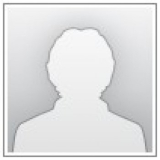
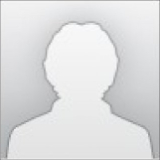
logout

diff --git a/session_test.go b/session_test.go
@@ -119,6 +119,30 @@ func TestMagicLinkSession(t *testing.T) {
 	}
 }
 
+// TestLogin checks the login page tells anonymous visitors how to sign in
+// and bounces already-authenticated ones to the dashboard.
+func TestLogin(t *testing.T) {
+	store := newTestStore(t)
+	user := testUser(t)
+	h := withSessionUser(store, http.HandlerFunc(handleLogin))
+
+	rec := httptest.NewRecorder()
+	h.ServeHTTP(rec, httptest.NewRequest("GET", "/login", nil))
+	if rec.Code != http.StatusOK || !strings.Contains(rec.Body.String(), "/dash") {
+		t.Fatalf("want login page mentioning /dash, got %d: %.200s", rec.Code, rec.Body.String())
+	}
+
+	srec := httptest.NewRecorder()
+	createSession(srec, store, user)
+	req := httptest.NewRequest("GET", "/login", nil)
+	req.AddCookie(srec.Result().Cookies()[0])
+	rec = httptest.NewRecorder()
+	h.ServeHTTP(rec, req)
+	if rec.Code != http.StatusSeeOther || rec.Header().Get("Location") != "/dashboard" {
+		t.Fatalf("signed-in /login: want 303 to /dashboard, got %d to %q", rec.Code, rec.Header().Get("Location"))
+	}
+}
+
 func TestRequireSessionRejectsAnonymous(t *testing.T) {
 	store := newTestStore(t)
 	gated := withSessionUser(store, requireSession(handleDashboard))
@@ -138,9 +162,14 @@ func TestNavAuthenticated(t *testing.T) {
 	if err := templates.IndexPage().Render(context.Background(), &anon); err != nil {
 		t.Fatalf("render: %v", err)
 	}
-	for _, frag := range []string{`href="/dashboard"`, `href="/link"`, "profpic"} {
+	for _, frag := range []string{`href="/dashboard"`, `href="/link"`, `href="/logout"`} {
 		if strings.Contains(anon.String(), frag) {
 			t.Errorf("anonymous nav should not contain %s", frag)
+		}
+	}
+	for _, frag := range []string{`href="/login"`, `src="/profilepic"`} {
+		if !strings.Contains(anon.String(), frag) {
+			t.Errorf("anonymous nav should contain %s", frag)
 		}
 	}
 
@@ -149,9 +178,60 @@ func TestNavAuthenticated(t *testing.T) {
 	if err := templates.IndexPage().Render(ctx, &authed); err != nil {
 		t.Fatalf("render: %v", err)
 	}
-	for _, frag := range []string{`href="/dashboard"`, `href="/link"`, "/assets/profpic/user-1"} {
+	for _, frag := range []string{`href="/dashboard"`, `href="/link"`, `href="/logout"`, `src="/profilepic"`} {
 		if !strings.Contains(authed.String(), frag) {
 			t.Errorf("authenticated nav should contain %s", frag)
 		}
+	}
+}
+
+// TestProfilePic checks /profilepic resolves the avatar from the session:
+// the signed-in user's photo, the default for everyone else.
+func TestProfilePic(t *testing.T) {
+	store := newTestStore(t)
+	user := testUser(t)
+	realPhoto := domains.NewPhoto(1, 1, []byte("real-photo-bytes"), "p1")
+	store.TGPhotos.Set(user.ID(), *realPhoto, time.Minute)
+
+	h := withSessionUser(store, handleProfilePic(store))
+	get := func(cookie *http.Cookie) string {
+		req := httptest.NewRequest("GET", "/profilepic", nil)
+		if cookie != nil {
+			req.AddCookie(cookie)
+		}
+		rec := httptest.NewRecorder()
+		h.ServeHTTP(rec, req)
+		if rec.Code != http.StatusOK {
+			t.Fatalf("GET /profilepic: want 200, got %d", rec.Code)
+		}
+		return rec.Body.String()
+	}
+
+	if strings.Contains(get(nil), "real-photo-bytes") {
+		t.Fatal("anonymous request must not receive a real photo")
+	}
+
+	rec := httptest.NewRecorder()
+	createSession(rec, store, user)
+	cookie := rec.Result().Cookies()[0]
+	if !strings.Contains(get(cookie), "real-photo-bytes") {
+		t.Fatal("session user should receive their own photo")
+	}
+
+	// Logout kills the session server-side and expires the cookie; the same
+	// browser cookie is now worthless.
+	logout := withSessionUser(store, handleLogout(store))
+	req := httptest.NewRequest("GET", "/logout", nil)
+	req.AddCookie(cookie)
+	lrec := httptest.NewRecorder()
+	logout.ServeHTTP(lrec, req)
+	if lrec.Code != http.StatusSeeOther || lrec.Header().Get("Location") != "/" {
+		t.Fatalf("logout: want 303 to /, got %d to %q", lrec.Code, lrec.Header().Get("Location"))
+	}
+	if cleared := lrec.Result().Cookies(); len(cleared) != 1 || cleared[0].MaxAge >= 0 {
+		t.Fatalf("logout should expire the session cookie, got %v", cleared)
+	}
+	if strings.Contains(get(cookie), "real-photo-bytes") {
+		t.Fatal("stale cookie after logout must not resolve to a photo")
 	}
 }

diff --git a/handlers.go b/handlers.go
@@ -252,6 +252,18 @@ func handleDashboard(w http.ResponseWriter, r *http.Request) {
 	}
 }
 
+// handleLogin points browsers without a session at the bot; anyone already
+// signed in skips straight to the dashboard.
+func handleLogin(w http.ResponseWriter, r *http.Request) {
+	if domains.UserFromContext(r.Context()) != nil {
+		http.Redirect(w, r, "/dashboard", http.StatusSeeOther)
+		return
+	}
+	if err := templates.LoginPage().Render(r.Context(), w); err != nil {
+		httpError(r.Context(), w, clientIP(r), http.StatusInternalServerError, "internal error")
+	}
+}
+
 func handlePrivacy(w http.ResponseWriter, r *http.Request) {
 	ip := clientIP(r)
 	err := templates.PrivacyPage().Render(r.Context(), w)
@@ -268,28 +280,29 @@ func handleIndex(w http.ResponseWriter, r *http.Request) {
 	}
 }
 
+// handleProfilePic serves the viewer's own avatar: the session user's cached
+// photo, or the default for anonymous visitors (and photo-cache misses). The
+// session is the identity, so the URL carries no user ID at all.
 func handleProfilePic(store *database.Store) http.HandlerFunc {
 	return func(w http.ResponseWriter, r *http.Request) {
-		ip := clientIP(r)
-		userID := strings.ToLower(r.PathValue("userID"))
-		// Sessions gate the route, but photos are still keyed by user ID:
-		// only serve the viewer their own picture.
-		user := domains.UserFromContext(r.Context())
-		if user.ID() != userID {
-			httpError(r.Context(), w, ip, http.StatusNotFound, "not found")
+		photo := domains.GetDefaultPhoto()
+		if user := domains.UserFromContext(r.Context()); user != nil {
+			if cached := store.TGPhotos.Get(user.ID()); cached != nil {
+				p := cached.Value()
+				photo = &p
+			}
+		}
+		// One URL answers differently per session, so shared caches must not
+		// store it and the browser revalidates on login/logout; the ETag
+		// (Telegram's stable per-file ID) makes revalidation a cheap 304.
+		etag := `"` + photo.ID() + `"`
+		w.Header().Set("ETag", etag)
+		w.Header().Set("Cache-Control", "private, no-cache")
+		if r.Header.Get("If-None-Match") == etag {
+			w.WriteHeader(http.StatusNotModified)
 			return
 		}
-		slog.Info("load profile pic", "for", ip, "userid", userID)
-		photo := domains.GetDefaultPhoto()
-		if cached := store.TGPhotos.Get(userID); cached != nil {
-			p := cached.Value()
-			photo = &p
-		}
 		w.Header().Set("Content-Type", photo.MIME())
-		// Sessions outlive the photo cache, so fall back to the default
-		// instead of a broken image; keep browser caching short so a real
-		// photo shows up soon after the cache refills.
-		w.Header().Set("Cache-Control", "max-age=3600")
 		w.Write(photo.Data())
 	}
 }

diff --git a/templates/layout_templ.go b/templates/layout_templ.go
@@ -10,11 +10,7 @@ package templates
 import "github.com/a-h/templ"
 import templruntime "github.com/a-h/templ/runtime"
 
-import (
-	"fmt"
-
-	"github.com/hmsmart/runway/domains"
-)
+import "github.com/hmsmart/runway/domains"
 
 func Layout(title string) templ.Component {
 	return templruntime.GeneratedTemplate(func(templ_7745c5c3_Input templruntime.GeneratedComponentInput) (templ_7745c5c3_Err error) {
@@ -44,13 +40,13 @@ func Layout(title string) templ.Component {
 		var templ_7745c5c3_Var2 string
 		templ_7745c5c3_Var2, templ_7745c5c3_Err = templ.JoinStringErrs(title)
 		if templ_7745c5c3_Err != nil {
-			return templ.Error{Err: templ_7745c5c3_Err, FileName: `templates/layout.templ`, Line: 14, Col: 38}
+			return templ.Error{Err: templ_7745c5c3_Err, FileName: `templates/layout.templ`, Line: 10, Col: 38}
 		}
 		_, templ_7745c5c3_Err = templ_7745c5c3_Buffer.WriteString(templ.EscapeString(templ_7745c5c3_Var2))
 		if templ_7745c5c3_Err != nil {
 			return templ_7745c5c3_Err
 		}
-		templ_7745c5c3_Err = templruntime.WriteString(templ_7745c5c3_Buffer, 2, "]</title><meta charset=\"utf-8\"><meta name=\"viewport\" content=\"width=device-width, initial-scale=1\"><meta name=\"color-scheme\" content=\"light dark\"><link rel=\"stylesheet\" href=\"/assets/css/pico.classless.slate.min.css\"><link rel=\"stylesheet\" href=\"/assets/css/style.css?v=2\"></head><body><header>")
+		templ_7745c5c3_Err = templruntime.WriteString(templ_7745c5c3_Buffer, 2, "]</title><meta charset=\"utf-8\"><meta name=\"viewport\" content=\"width=device-width, initial-scale=1\"><meta name=\"color-scheme\" content=\"light dark\"><link rel=\"stylesheet\" href=\"/assets/css/pico.classless.slate.min.css\"><link rel=\"stylesheet\" href=\"/assets/css/style.css?v=3\"></head><body><header>")
 		if templ_7745c5c3_Err != nil {
 			return templ_7745c5c3_Err
 		}
@@ -75,8 +71,9 @@ func Layout(title string) templ.Component {
 }
 
 // Nav reads the session user off the render context (the HTTP session
-// middleware puts it there); the signed-in entries and the profile picture
-// only render for an authenticated viewer.
+// middleware puts it there) to pick the signed-in or signed-out entries.
+// The avatar is unconditional: /profilepic itself resolves the session to
+// either the user's photo or the default.
 func Nav() templ.Component {
 	return templruntime.GeneratedTemplate(func(templ_7745c5c3_Input templruntime.GeneratedComponentInput) (templ_7745c5c3_Err error) {
 		templ_7745c5c3_W, ctx := templ_7745c5c3_Input.Writer, templ_7745c5c3_Input.Context
@@ -98,30 +95,22 @@ func Nav() templ.Component {
 			templ_7745c5c3_Var3 = templ.NopComponent
 		}
 		ctx = templ.ClearChildren(ctx)
-		templ_7745c5c3_Err = templruntime.WriteString(templ_7745c5c3_Buffer, 5, "<nav><ul><li><strong>runway</strong></li></ul><ul><li><a href=\"/\">about</a></li><li><a href=\"/privacy\">privacy</a></li>")
+		templ_7745c5c3_Err = templruntime.WriteString(templ_7745c5c3_Buffer, 5, "<nav><ul><li><strong><a href=\"/\">runway</a></strong></li></ul><ul>")
 		if templ_7745c5c3_Err != nil {
 			return templ_7745c5c3_Err
 		}
-		if user := domains.UserFromContext(ctx); user != nil {
-			templ_7745c5c3_Err = templruntime.WriteString(templ_7745c5c3_Buffer, 6, "<li><a href=\"/dashboard\">dashboard</a></li><li><a href=\"/link\">link</a></li><li><profile-pic><img src=\"")
+		if domains.UserFromContext(ctx) != nil {
+			templ_7745c5c3_Err = templruntime.WriteString(templ_7745c5c3_Buffer, 6, "<li><a href=\"/dashboard\">dashboard</a></li><li><a href=\"/link\">link</a></li><li><a href=\"/logout\">logout</a></li>")
 			if templ_7745c5c3_Err != nil {
 				return templ_7745c5c3_Err
 			}
-			var templ_7745c5c3_Var4 string
-			templ_7745c5c3_Var4, templ_7745c5c3_Err = templ.ResolveAttributeValue(fmt.Sprintf("/assets/profpic/%s", user.ID()))
-			if templ_7745c5c3_Err != nil {
-				return templ.Error{Err: templ_7745c5c3_Err, FileName: `templates/layout.templ`, Line: 60, Col: 79}
-			}
-			_, templ_7745c5c3_Err = templ_7745c5c3_Buffer.WriteString(templ_7745c5c3_Var4)
-			if templ_7745c5c3_Err != nil {
-				return templ_7745c5c3_Err
-			}
-			templ_7745c5c3_Err = templruntime.WriteString(templ_7745c5c3_Buffer, 7, "\" alt=\"profile\"></profile-pic></li>")
+		} else {
+			templ_7745c5c3_Err = templruntime.WriteString(templ_7745c5c3_Buffer, 7, "<li><a href=\"/login\">login</a></li>")
 			if templ_7745c5c3_Err != nil {
 				return templ_7745c5c3_Err
 			}
 		}
-		templ_7745c5c3_Err = templruntime.WriteString(templ_7745c5c3_Buffer, 8, "</ul></nav>")
+		templ_7745c5c3_Err = templruntime.WriteString(templ_7745c5c3_Buffer, 8, "<li><profile-pic><img src=\"/profilepic\" alt=\"profile\"></profile-pic></li></ul></nav>")
 		if templ_7745c5c3_Err != nil {
 			return templ_7745c5c3_Err
 		}

diff --git a/session.go b/session.go
@@ -46,6 +46,26 @@ func withSessionUser(store *database.Store, next http.Handler) http.Handler {
 	})
 }
 
+// handleLogout kills the browser's session: the cache entry dies server-side
+// and the cookie is expired, then the visitor lands back on the index.
+func handleLogout(store *database.Store) http.HandlerFunc {
+	return func(w http.ResponseWriter, r *http.Request) {
+		if c, err := r.Cookie(sessionCookieName); err == nil {
+			store.Sessions.Delete(c.Value)
+		}
+		http.SetCookie(w, &http.Cookie{
+			Name:     sessionCookieName,
+			Value:    "",
+			Path:     "/",
+			MaxAge:   -1,
+			HttpOnly: true,
+			Secure:   true,
+			SameSite: http.SameSiteLaxMode,
+		})
+		http.Redirect(w, r, "/", http.StatusSeeOther)
+	}
+}
+
 // requireSession rejects requests whose context carries no session user.
 func requireSession(next http.HandlerFunc) http.HandlerFunc {
 	return func(w http.ResponseWriter, r *http.Request) {

diff --git a/main.go b/main.go
@@ -113,7 +113,9 @@ func run(ctx context.Context) error {
 	mux.Handle("GET /dashboard", requireSession(handleDashboard))
 	mux.Handle("POST /exchange-token", handleTokenExchange(plaidClient, store, cfg, tg))
 	mux.Handle("POST "+webhookPath(cfg.PlaidWebhookURL), handlePlaidWebhook(plaidClient, store, cfg, tg))
-	mux.Handle("GET /assets/profpic/{userID}", requireSession(handleProfilePic(store)))
+	mux.Handle("GET /profilepic", handleProfilePic(store))
+	mux.HandleFunc("GET /login", handleLogin)
+	mux.Handle("GET /logout", handleLogout(store))
 	//Static pages
 	mux.HandleFunc("GET /privacy", handlePrivacy)
 	mux.HandleFunc("GET /{$}", handleIndex)